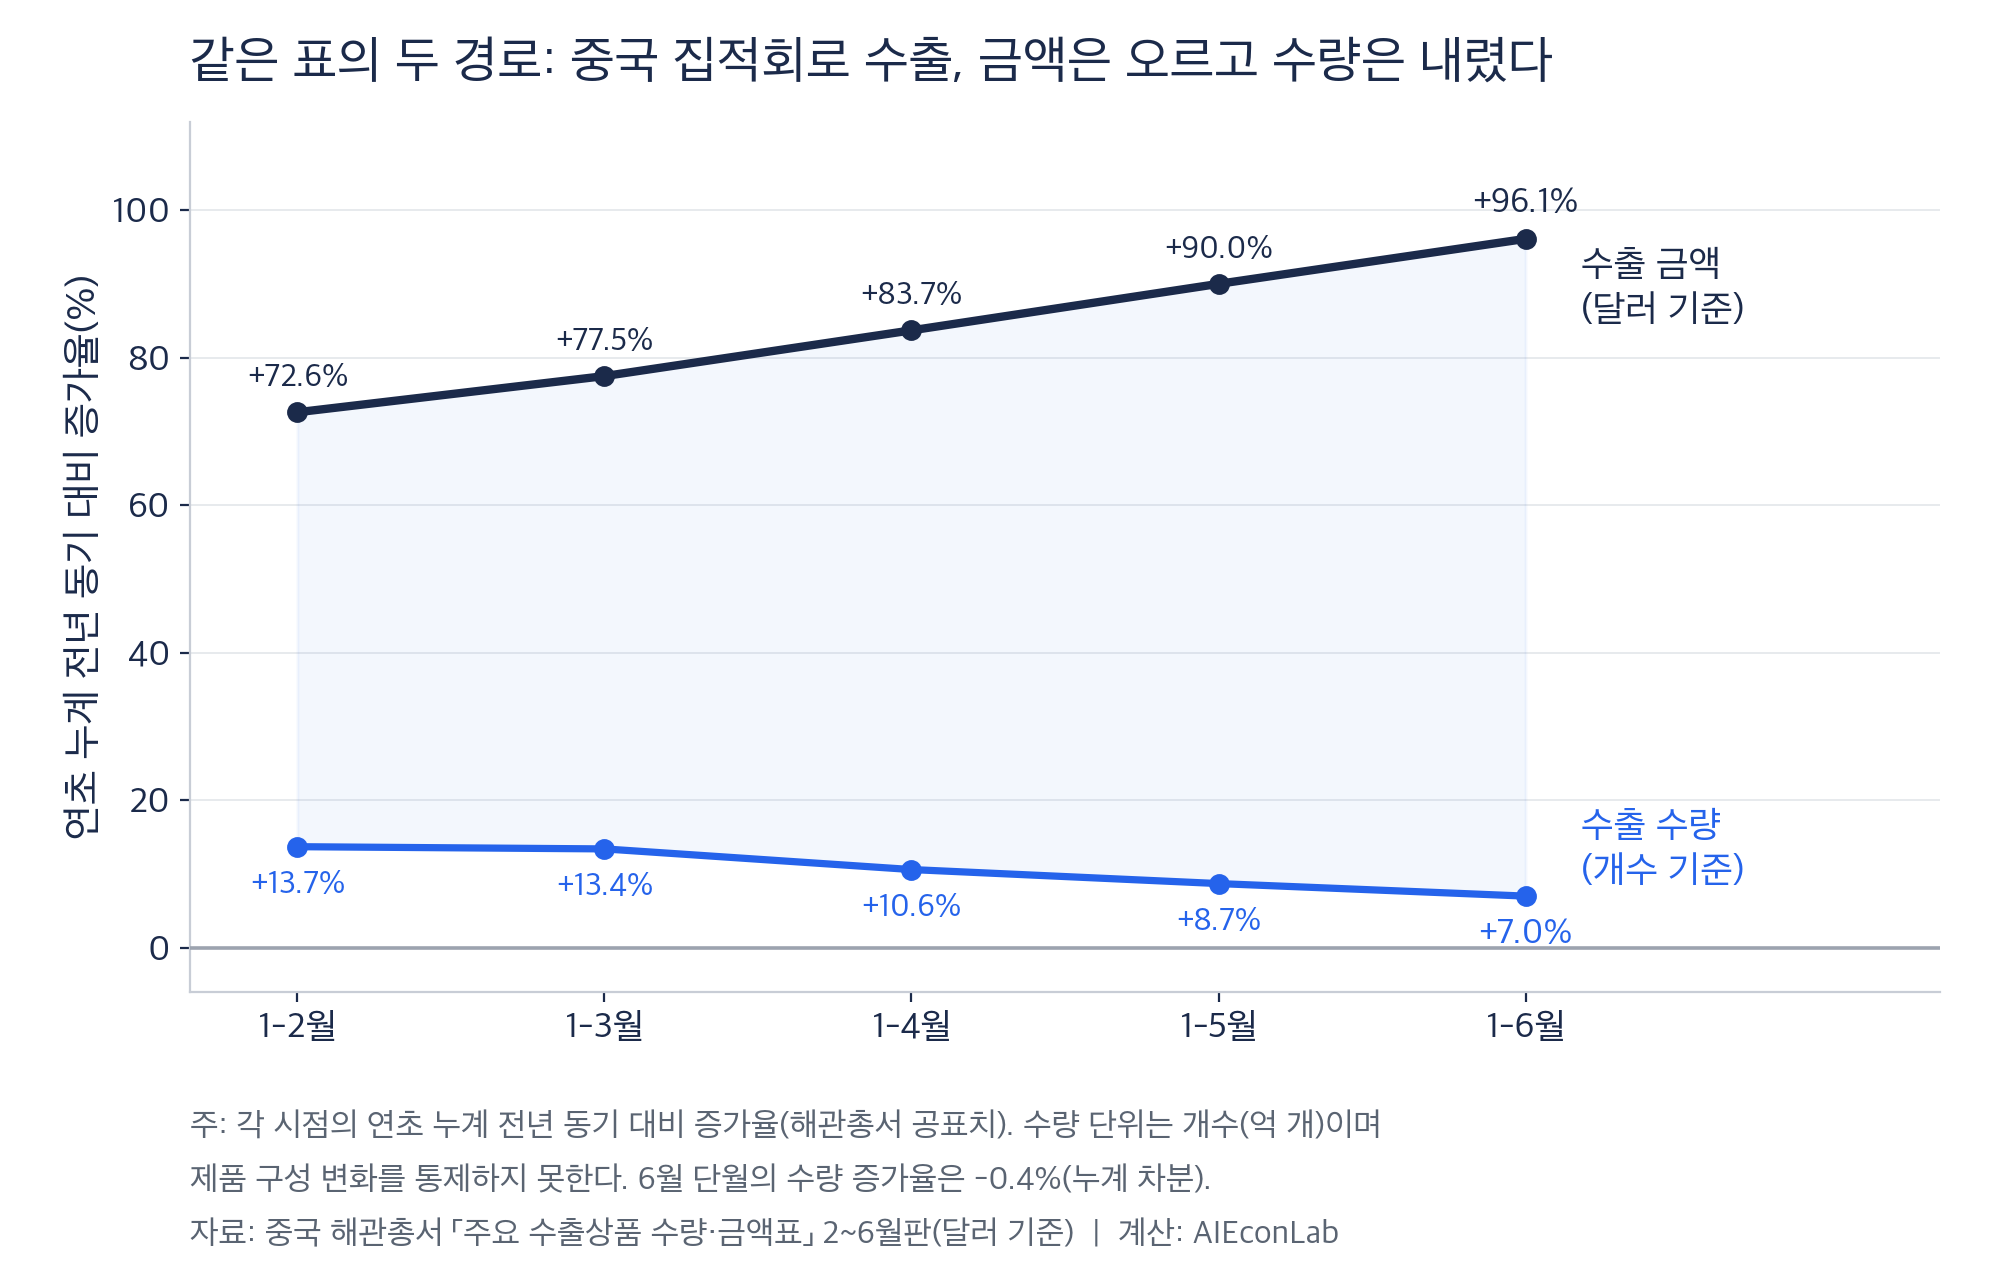
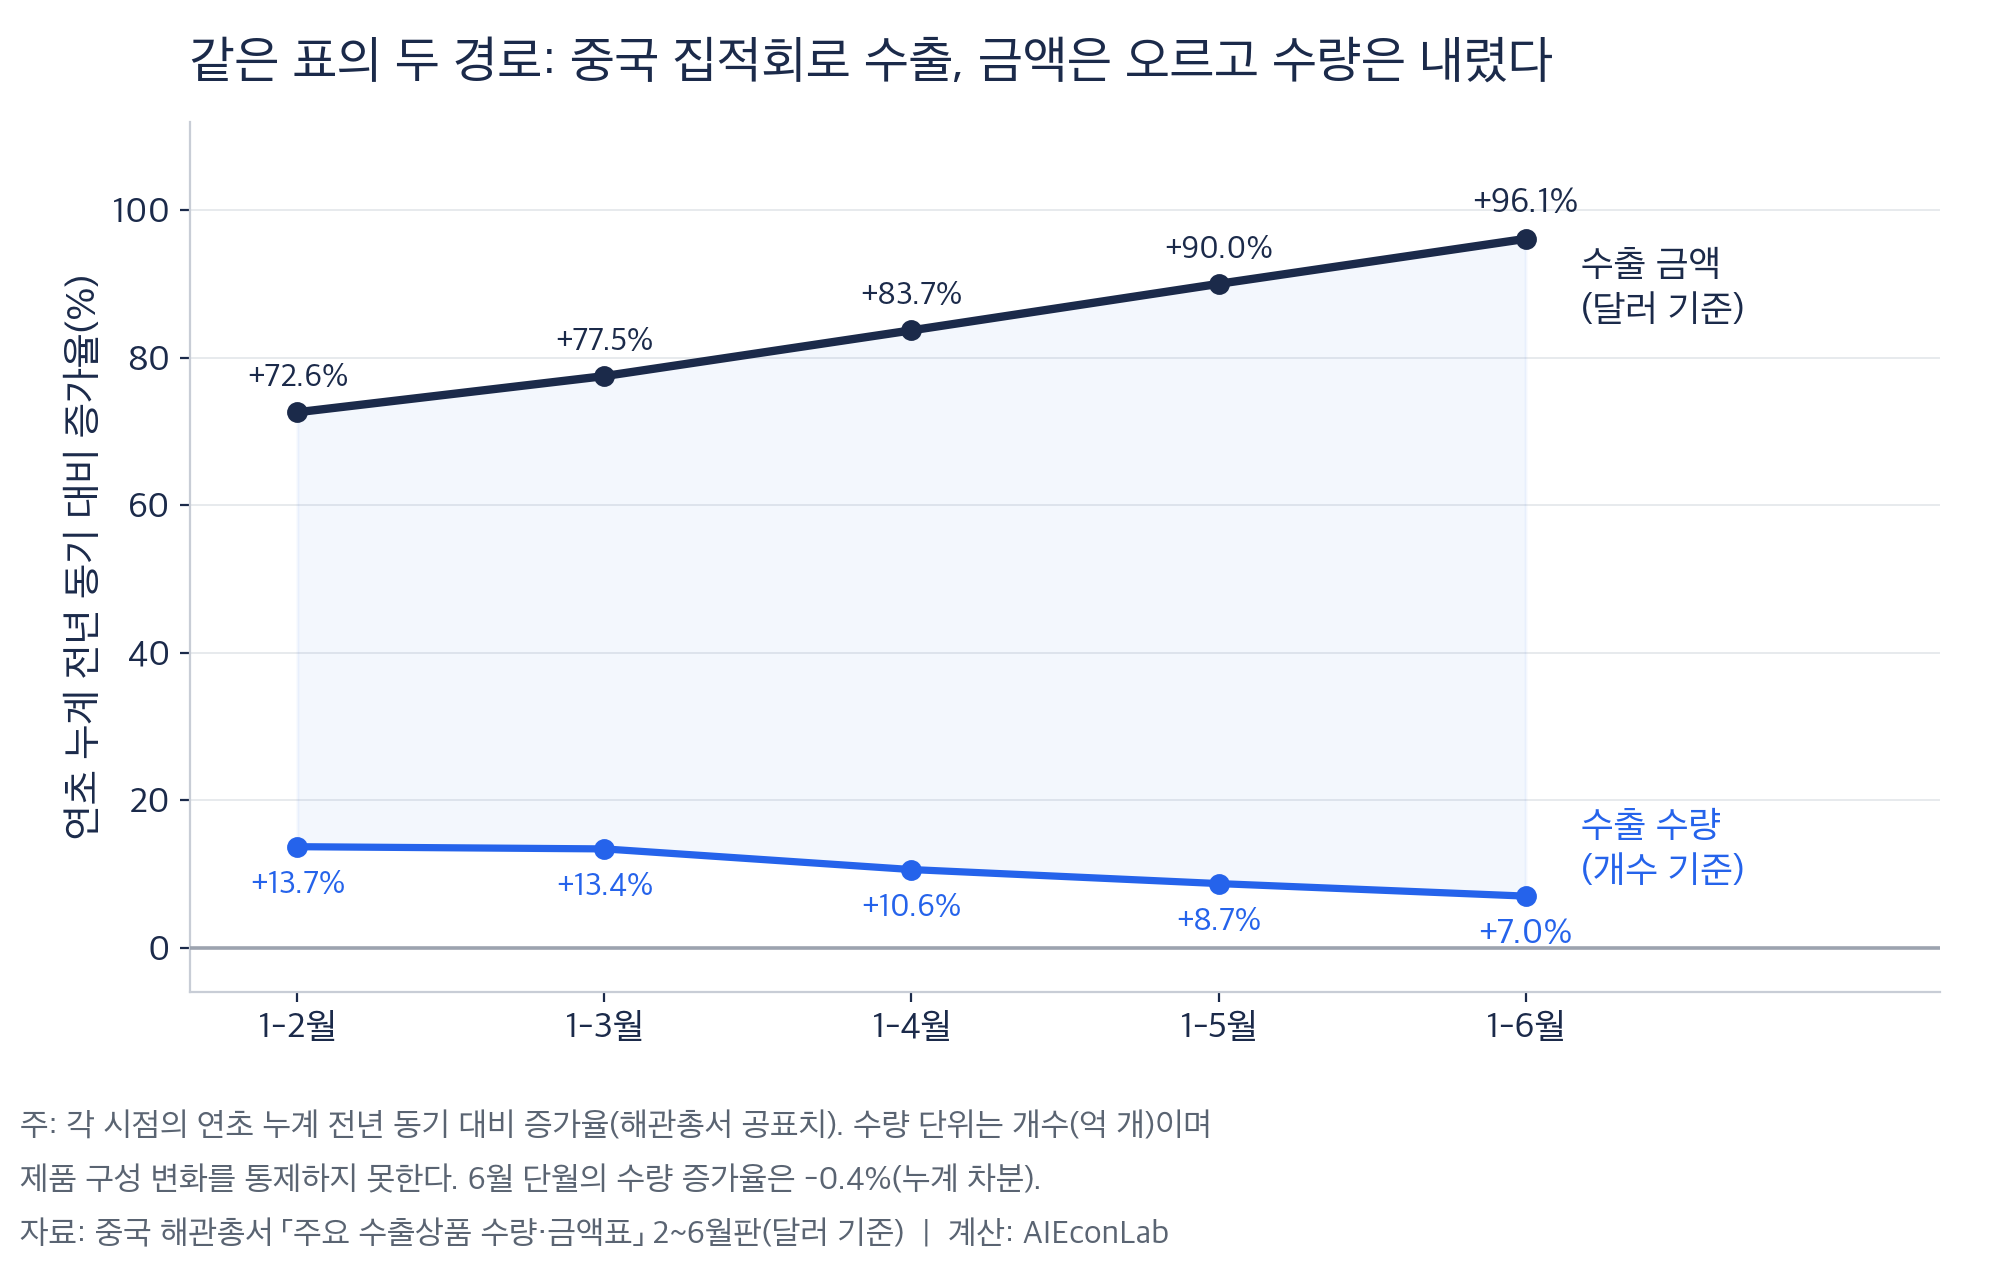
fix(trend15): 본문·캡션 양쪽 정렬, 그림 주석을 본문 왼쪽 선에 정렬
- custom.scss: 그림 캡션(figcaption)과 본문(p·li)을 text-align: justify +
  word-break: keep-all로 전환 (기존 캡션은 가운데 정렬이었음)
- fig01·fig02: '주/자료' 주석 x좌표를 0.095/0.02 → 0.01로 옮겨 이미지 왼쪽
  끝(=본문 왼쪽 선)에서 시작하도록 재생성. layout assert 통과
- README: 게시본 SHA-256 2건 갱신(재생성 사유 명기)

Changed region(s): [[0.0, 0.8438, 0.651, 0.9688], [0.651, 0.875, 0.682, 0.9062]]

diff --git a/assets/scss/custom.scss b/assets/scss/custom.scss
@@ -23,7 +23,17 @@
   font-size: 0.875rem;
   color: #64748b;
   line-height: 1.6;
-  text-align: center;
+  text-align: justify;
+  word-break: keep-all;
+  overflow-wrap: break-word;
+}
+
+/* Long-form Korean body text: justified alignment, no mid-word breaks */
+.article-content p,
+.article-content li {
+  text-align: justify;
+  word-break: keep-all;
+  overflow-wrap: break-word;
 }
 
 /* Keyboard users should never lose the current focus position. */

diff --git a/docs/03-analysis/china-chip-exports/scripts/fig02_price_volume_contribution.py b/docs/03-analysis/china-chip-exports/scripts/fig02_price_volume_contribution.py
@@ -102,11 +102,12 @@ def main():
                  loc="left", fontsize=18, fontweight="bold", color=NAVY, pad=14)
 
     fig.subplots_adjust(left=0.185, right=0.865, top=0.9, bottom=0.26)
-    note1 = fig.text(0.02, 0.135, "주: 물량 기여도 = ln(물량 배수)/ln(금액 배수). 중국은 수출 개수, 한국은 가격 변동분을 제거한",
+    # 주석은 이미지 왼쪽 끝(x=0.01)에서 시작해, 본문에 삽입됐을 때 글의 왼쪽 선과 맞도록 한다
+    note1 = fig.text(0.01, 0.135, "주: 물량 기여도 = ln(물량 배수)/ln(금액 배수). 중국은 수출 개수, 한국은 가격 변동분을 제거한",
                      fontsize=11.8, color=NOTE)
-    note2 = fig.text(0.02, 0.093, "수출물량지수(2020=100)로 잣대가 다르다. 한국은 2025·2026년 상반기 월별 지수 평균 기준.",
+    note2 = fig.text(0.01, 0.093, "수출물량지수(2020=100)로 잣대가 다르다. 한국은 2025·2026년 상반기 월별 지수 평균 기준.",
                      fontsize=11.8, color=NOTE)
-    note3 = fig.text(0.02, 0.051, "자료: 중국 해관총서 「주요 수출상품 수량·금액표」, 한국은행 ECOS 403Y001·403Y002  |  계산: AIEconLab",
+    note3 = fig.text(0.01, 0.051, "자료: 중국 해관총서 「주요 수출상품 수량·금액표」, 한국은행 ECOS 403Y001·403Y002  |  계산: AIEconLab",
                      fontsize=11.8, color=NOTE)
 
     # 렌더링 후 텍스트 충돌·잘림 검사

diff --git a/docs/03-analysis/china-chip-exports/scripts/fig01_value_vs_volume.py b/docs/03-analysis/china-chip-exports/scripts/fig01_value_vs_volume.py
@@ -89,11 +89,12 @@ def main():
                  loc="left", fontsize=18.5, fontweight="bold", color=NAVY, pad=16)
 
     fig.subplots_adjust(left=0.095, right=0.97, top=0.905, bottom=0.225)
-    note1 = fig.text(0.095, 0.112, "주: 각 시점의 연초 누계 전년 동기 대비 증가율(해관총서 공표치). 수량 단위는 개수(억 개)이며",
+    # 주석은 이미지 왼쪽 끝(x=0.01)에서 시작해, 본문에 삽입됐을 때 글의 왼쪽 선과 맞도록 한다
+    note1 = fig.text(0.01, 0.112, "주: 각 시점의 연초 누계 전년 동기 대비 증가율(해관총서 공표치). 수량 단위는 개수(억 개)이며",
                      fontsize=11.8, color=NOTE)
-    note2 = fig.text(0.095, 0.070, "제품 구성 변화를 통제하지 못한다. 6월 단월의 수량 증가율은 -0.4%(누계 차분).",
+    note2 = fig.text(0.01, 0.070, "제품 구성 변화를 통제하지 못한다. 6월 단월의 수량 증가율은 -0.4%(누계 차분).",
                      fontsize=11.8, color=NOTE)
-    note3 = fig.text(0.095, 0.028, "자료: 중국 해관총서 「주요 수출상품 수량·금액표」 2~6월판(달러 기준)  |  계산: AIEconLab",
+    note3 = fig.text(0.01, 0.028, "자료: 중국 해관총서 「주요 수출상품 수량·금액표」 2~6월판(달러 기준)  |  계산: AIEconLab",
                      fontsize=11.8, color=NOTE)
 
     # 렌더링 후 텍스트 충돌·잘림 검사

diff --git a/docs/03-analysis/china-chip-exports/README.md b/docs/03-analysis/china-chip-exports/README.md
@@ -24,9 +24,9 @@
   ```bash
   /opt/anaconda3/bin/python3 -c "from PIL import Image; import sys; a,b=(Image.open(p).convert('RGBA') for p in sys.argv[1:3]); print('pixel-identical:', a.size==b.size and list(a.getdata())==list(b.getdata()))" scripts/out/fig01_value_vs_volume.png ../../../static/images/post/trend15/fig01_value_vs_volume.png
   ```
-- 게시본 SHA-256 (out/과 게시 경로 동일 확인, 2026-07-26):
[2 lines of base64/hex data omitted]
+- 게시본 SHA-256 (out/과 게시 경로 동일 확인, 2026-07-26 — fig01·fig02는 주석 위치를 이미지 왼쪽 끝으로 옮긴 재생성본으로 갱신):
[3 lines of base64/hex data omitted]
 - 출력 → 게시 경로 복사:
   - `scripts/out/fig01_value_vs_volume.png` → `static/images/post/trend15/`
